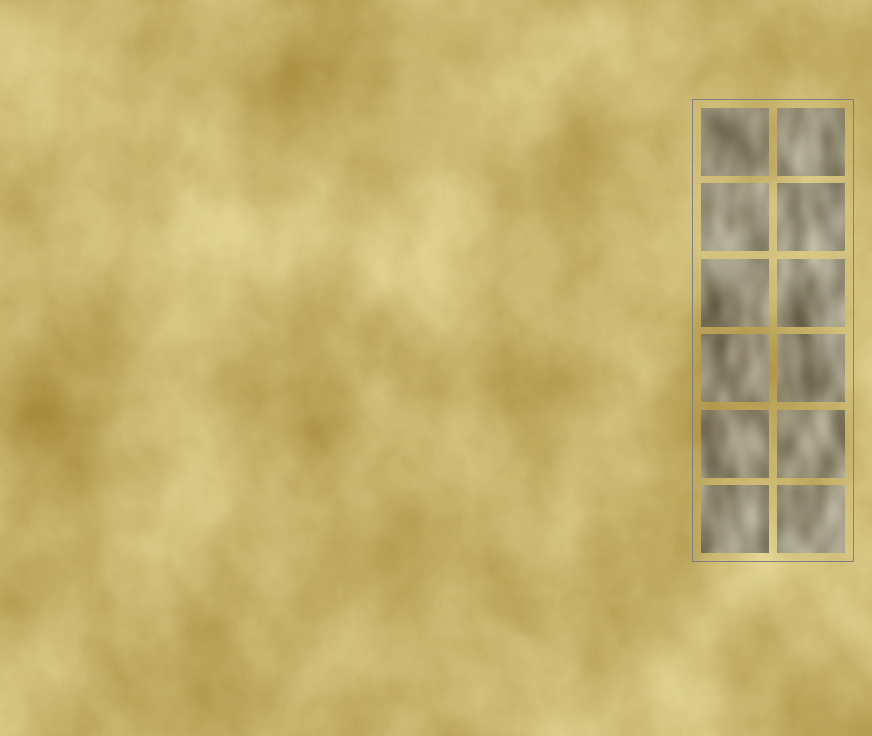
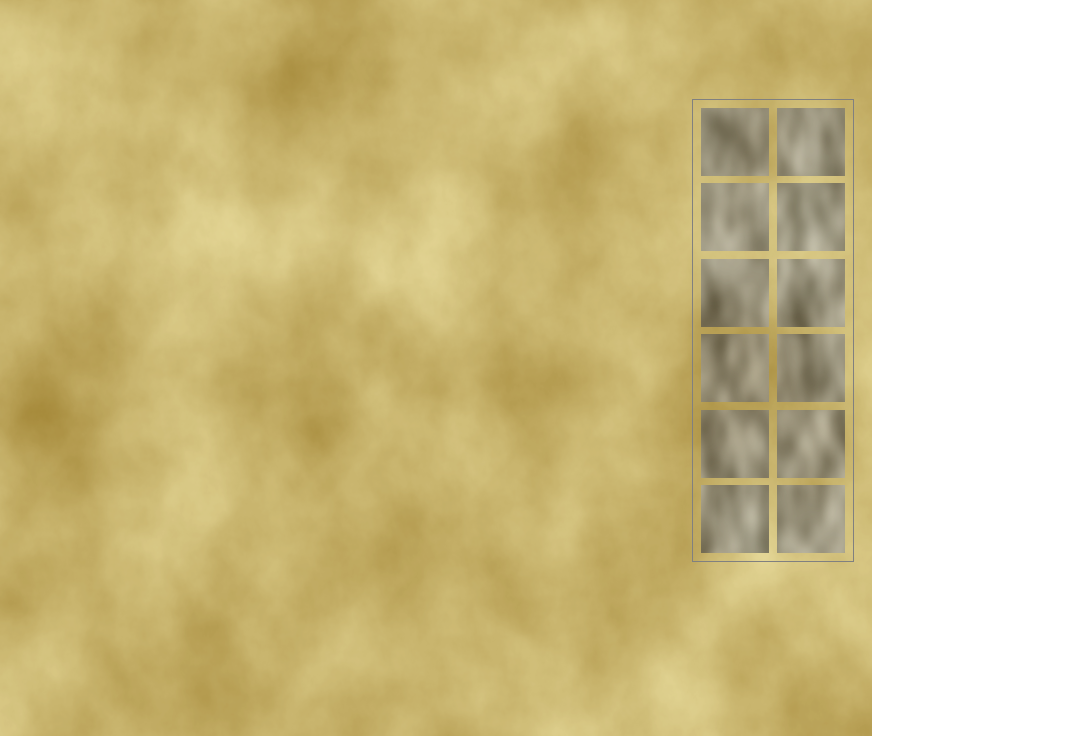
text

diff --git a/board.html b/board.html
@@ -23,7 +23,7 @@
             var SIDE_BAR_SIZE = 200;
 
 
-            var game = new Phaser.Game(872, 736, Phaser.AUTO, '', { preload: preload, create: create, update: update });
+            var game = new Phaser.Game(1072, 736, Phaser.AUTO, '', { preload: preload, create: create, update: update });
 
 
             function preload() {
@@ -39,6 +39,14 @@
             var start;
             var selector;
 
+            var x;
+            var y;
+
+            var text;
+            var style;
+
+            var menu = [[701,108],[777,108],[701,183],[777,183],[701,259],[777,259],[701,334],[777,334],[701,410],[777,410],[701,485],[777,485]];
+
 
 
             function create() {
@@ -50,6 +58,7 @@
                 selector = new Selector();
 
                 document.addEventListener("click", function(event){ click(event, ground, selector); });
+                document.addEventListener("mousemove", hover);
 
                 //start time
                 start = game.time.now;
@@ -60,6 +69,10 @@
                 sprite.height = sprite.height*2;
                 sprite.smoothed = false;
 
+                style = { font: "65px Arial", fill: "#ff0044", align: "center" };
+                text = game.add.text(880, 200, 'coucou', style);
+
+
             }
 
             function update() {
@@ -67,6 +80,13 @@
                     //flood(ground);
                     start = game.time.now;
                 }
+
+                if(x > 701 && x < 701+67 && y > 108 && y < 108+67){
+                    text.destroy();
+                    text = game.add.text(880, 200, 'MAISON', style);
+                }
+
+
             }
 
             function click(event, ground, selector){
@@ -75,6 +95,11 @@
                 }else if(selector.tileSelected != null && event.clientX > 701 && event.clientX < 701+67 && event.clientY > 108 && event.clientY < 108+67){
                     selector.tileSelected.buildHouse();
                 }
+            }
+
+            function hover(event){
+                x = event.clientX;
+                y = event.clientY;
             }
 
 
